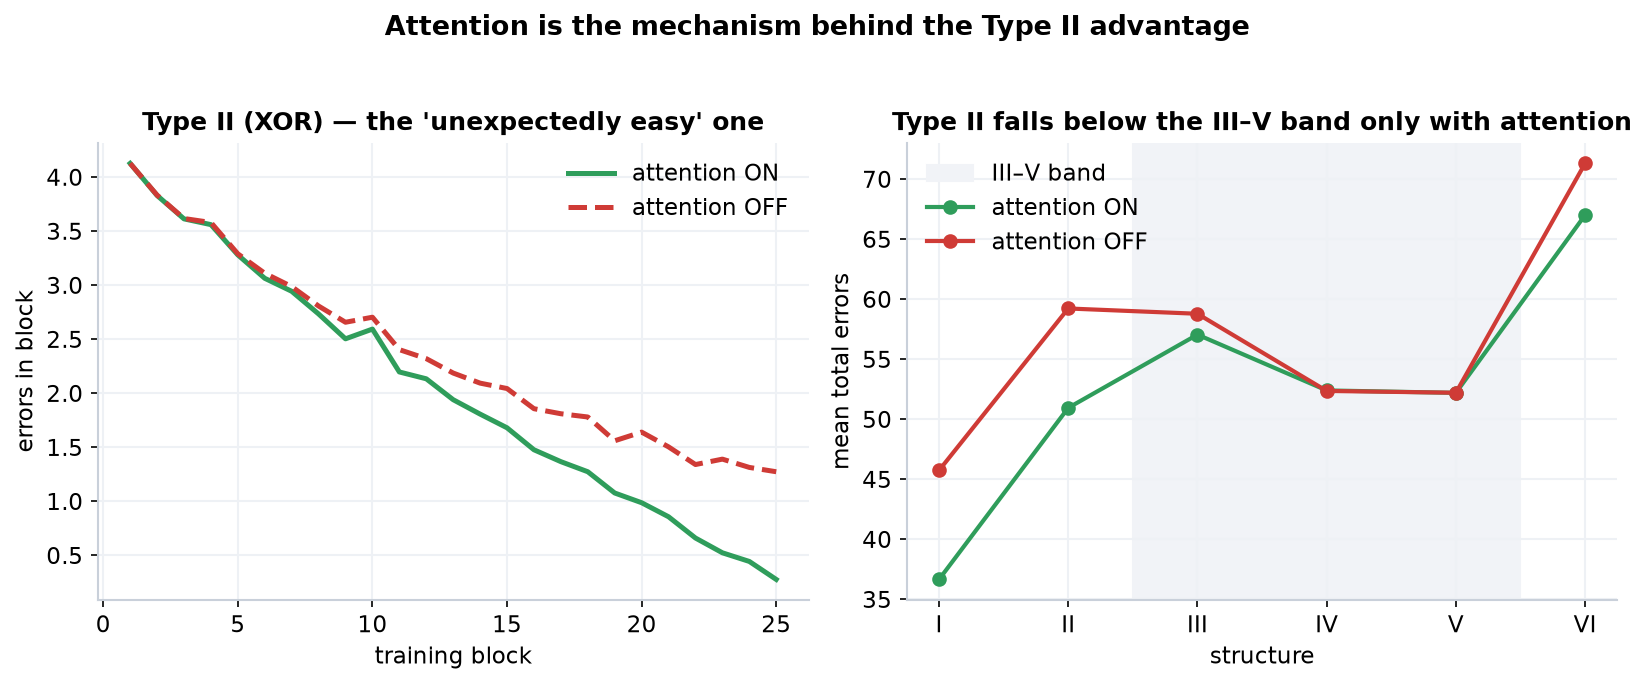
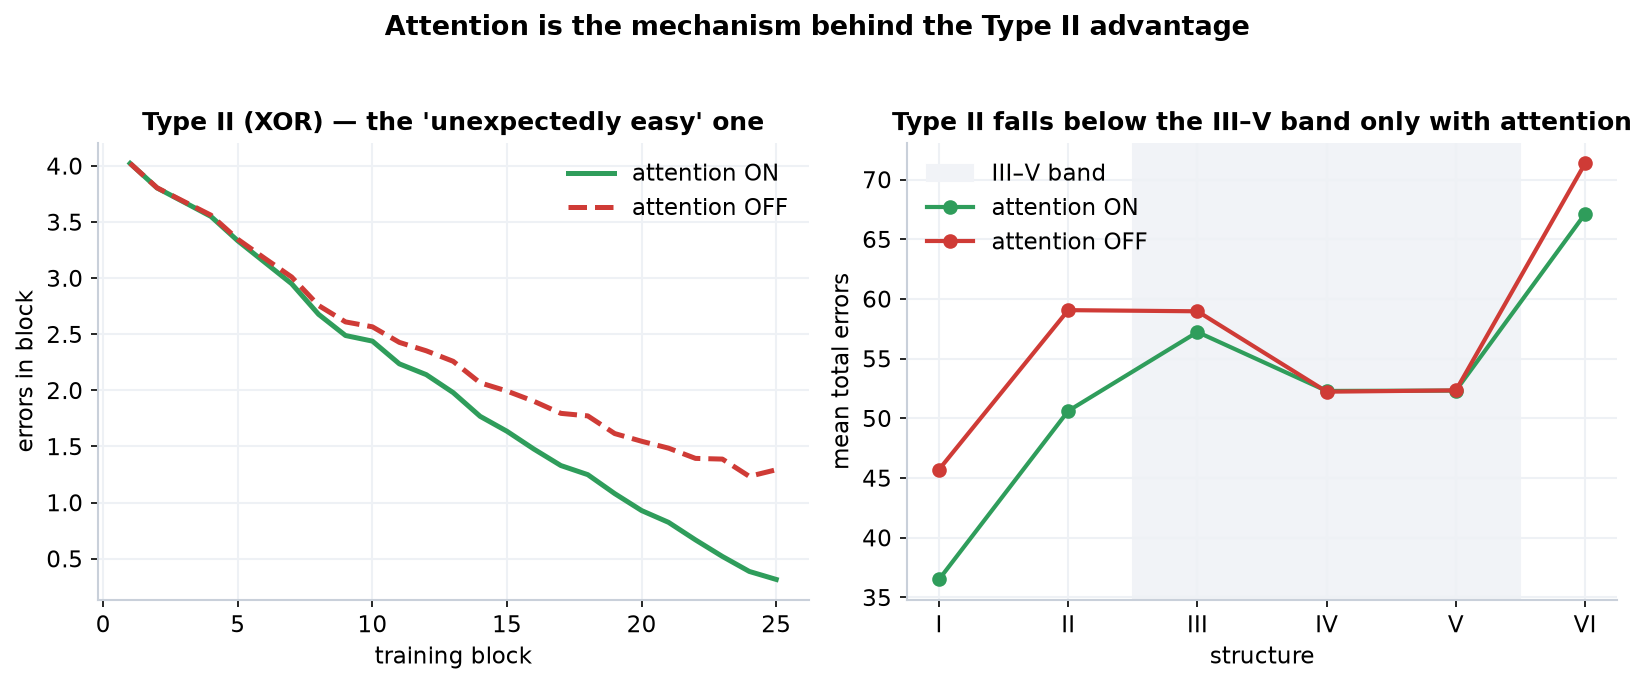
Unify all deliverables at 800 simulated subjects (seed 0)
Regenerate the notebook, figures, and report at 800 subjects to match the
presentation website, so every artifact reports identical numbers. Findings
are unchanged; the exemplar-with-attention rank correlation rises to 0.83.

diff --git a/report/report.tex b/report/report.tex
@@ -166,12 +166,12 @@ fault.
 \section{Results}
 I trained four conditions---the exemplar model with attention, the same model
 with attention frozen, the prototype model, and the rule model---on all six
-structures, averaging 300 simulated subjects over 25 blocks at a fixed seed. Only
+structures, averaging 800 simulated subjects over 25 blocks at a fixed seed. Only
 the exemplar model with learned attention reproduces the human ordering
 $\text{I} < \text{II} < \{\text{III},\text{IV},\text{V}\} < \text{VI}$, including
 the position of Type~II below the tied III--V band (Fig.~\ref{fig:diff}). A rank
 correlation between each model's errors and the human difficulty rank is highest
-for this condition ($\rho = 0.77$) and lower for every other condition; the
+for this condition ($\rho = 0.83$) and lower for every other condition; the
 ordinal test is nevertheless the decisive one, because the human ranks are tied
 for Types~III, IV, and~V and a correlation cannot express that tie.
 